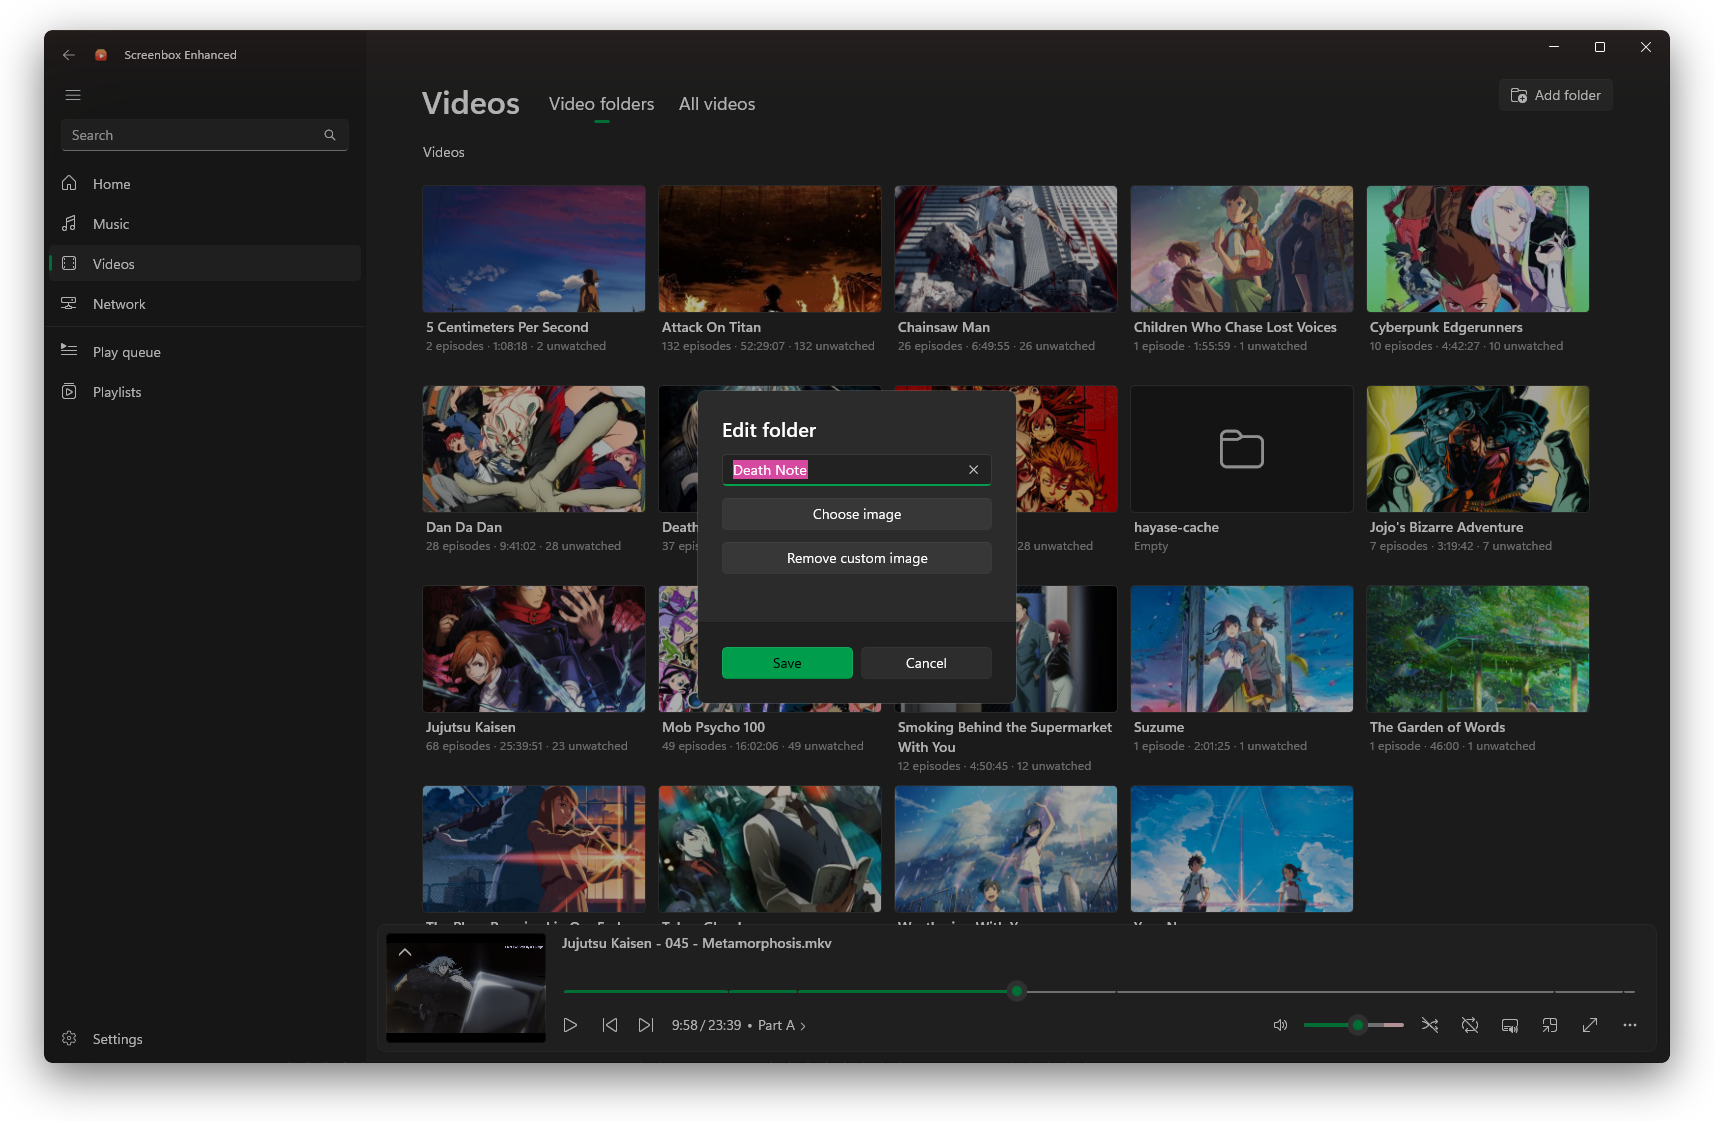
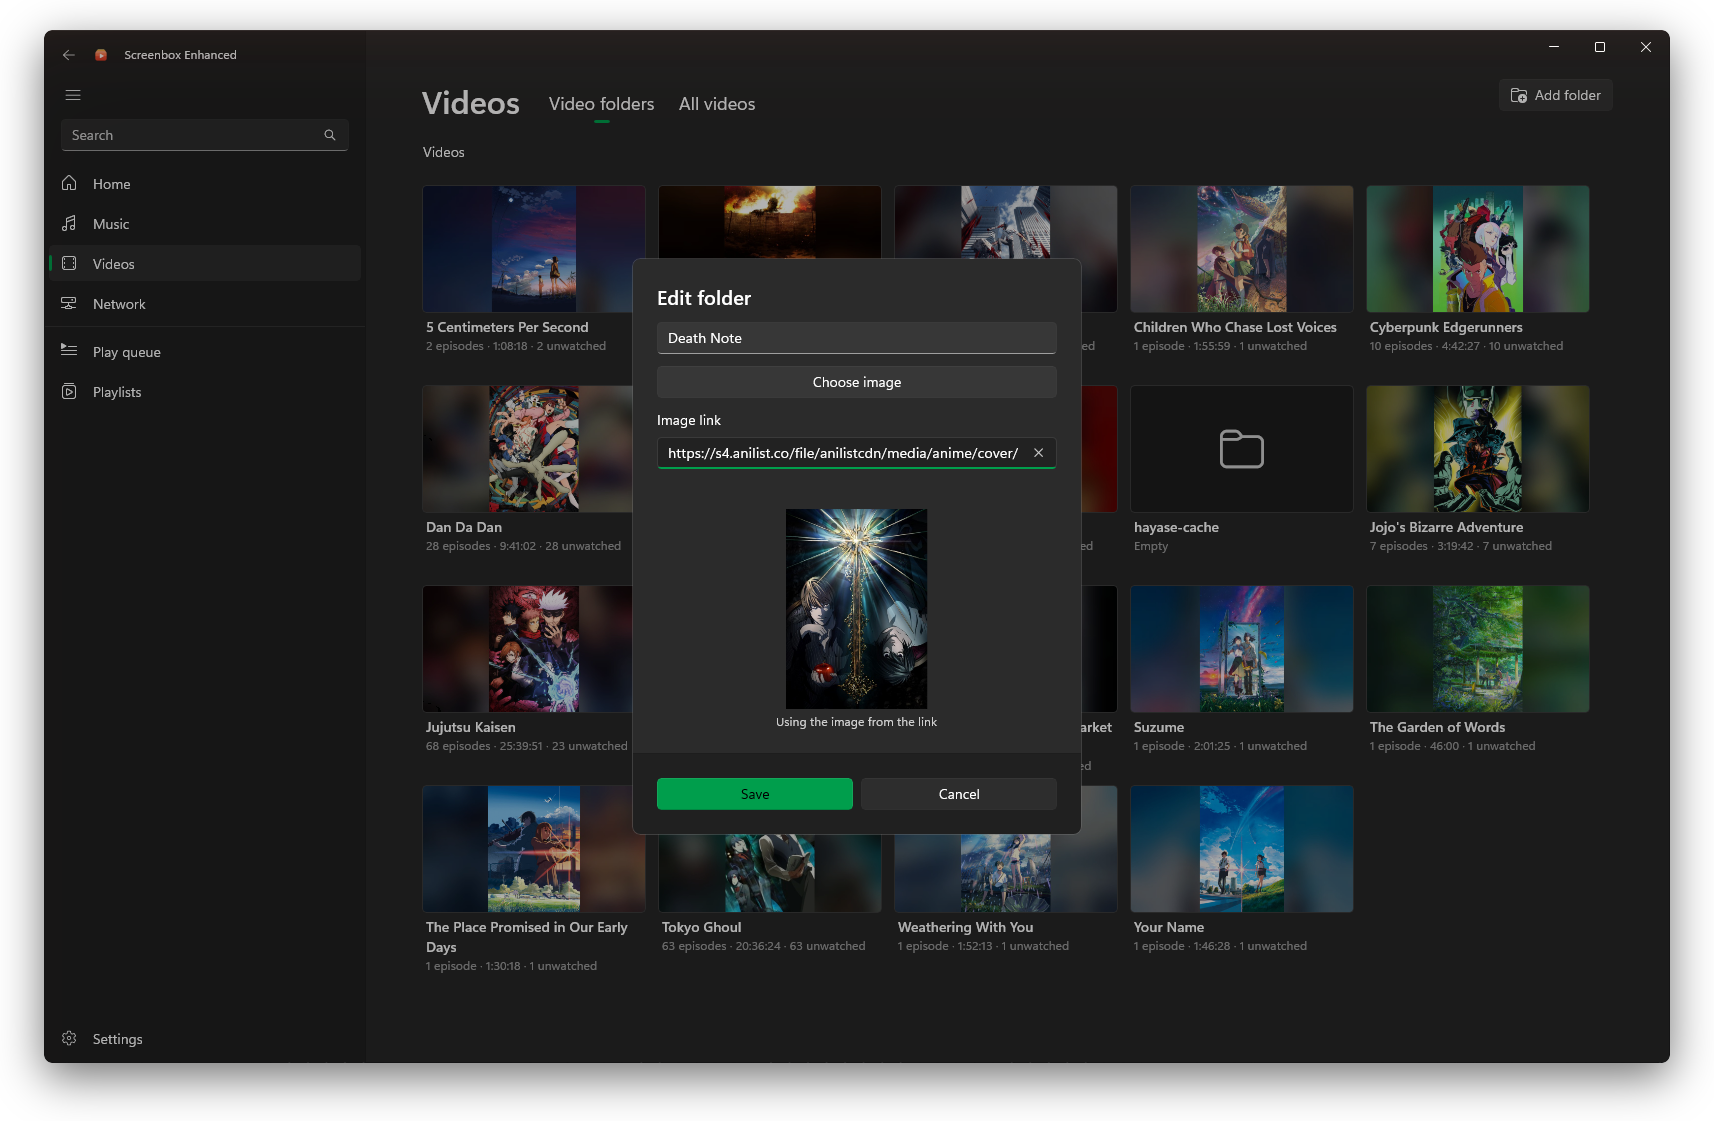
docs(readme): refresh screenshots for wide cards and image links
Recapture the light and dark library heroes with the new wide cards and
upgraded posters, and the Edit folder shot showing a pasted image link
with its preview. Describe page links with a verified example rather
than Imgur.

diff --git a/README.md b/README.md
@@ -40,9 +40,9 @@ Home picks up where you left off, with a Continue Watching row above your recent
 
 ### Make each folder your own
 
-Give any folder a display name and poster of your choosing, and remove a custom poster to go back to automatic artwork. Pick a poster from a file, or paste a link to an image hosted anywhere (an Imgur page works too) and it is fetched for you. Your choices always take priority over anything found online.
+Give any folder a display name and poster of your choosing, and remove a custom poster to go back to automatic artwork. Pick a poster from a file, or paste a link to an image hosted anywhere and it is fetched for you. A link to a page that shows the image, such as a MyAnimeList page, works too. Your choices always take priority over anything found online.
 
-![Screenshot of the Edit folder dialog, with options to choose an image or remove the custom image.](/assets/images/docs/PC-EditFolder-Dark.png)
+![Screenshot of the Edit folder dialog with an image link pasted in and a preview of the poster it fetched.](/assets/images/docs/PC-EditFolder-Dark.png)
 
 ### Optional online posters
 
